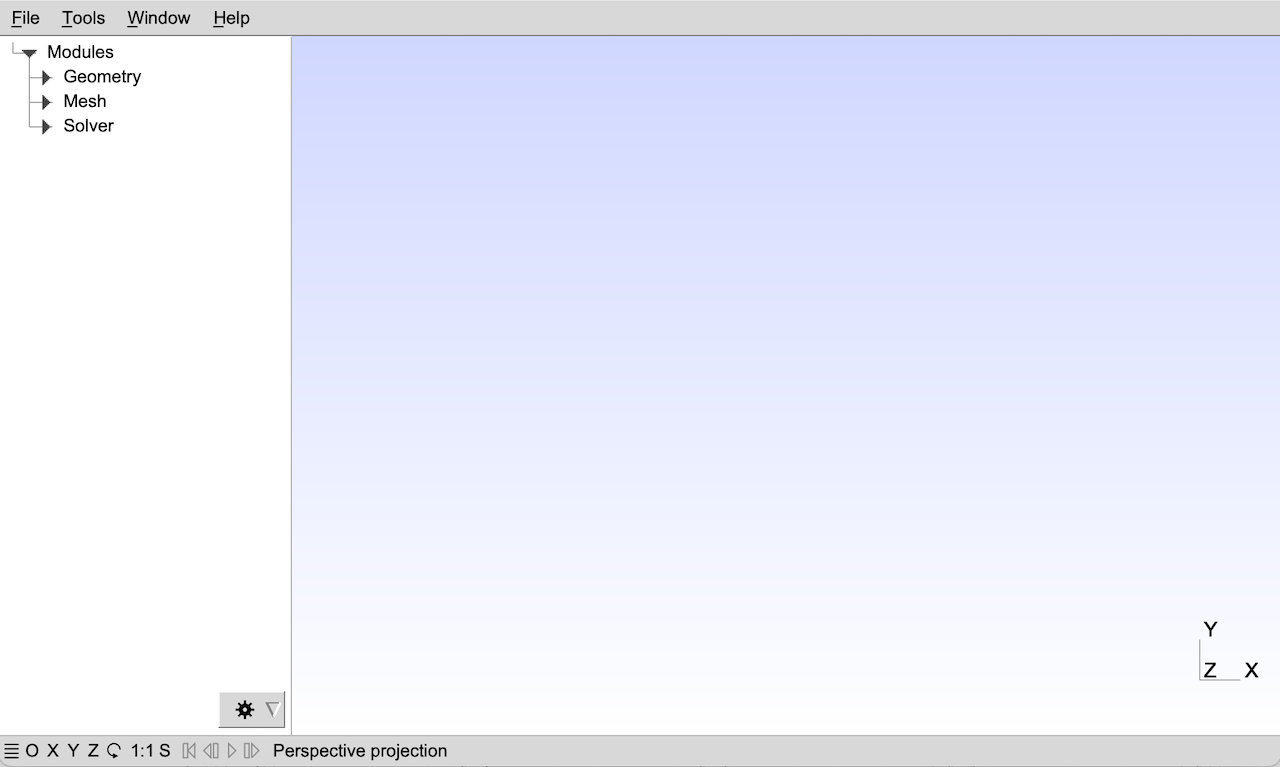
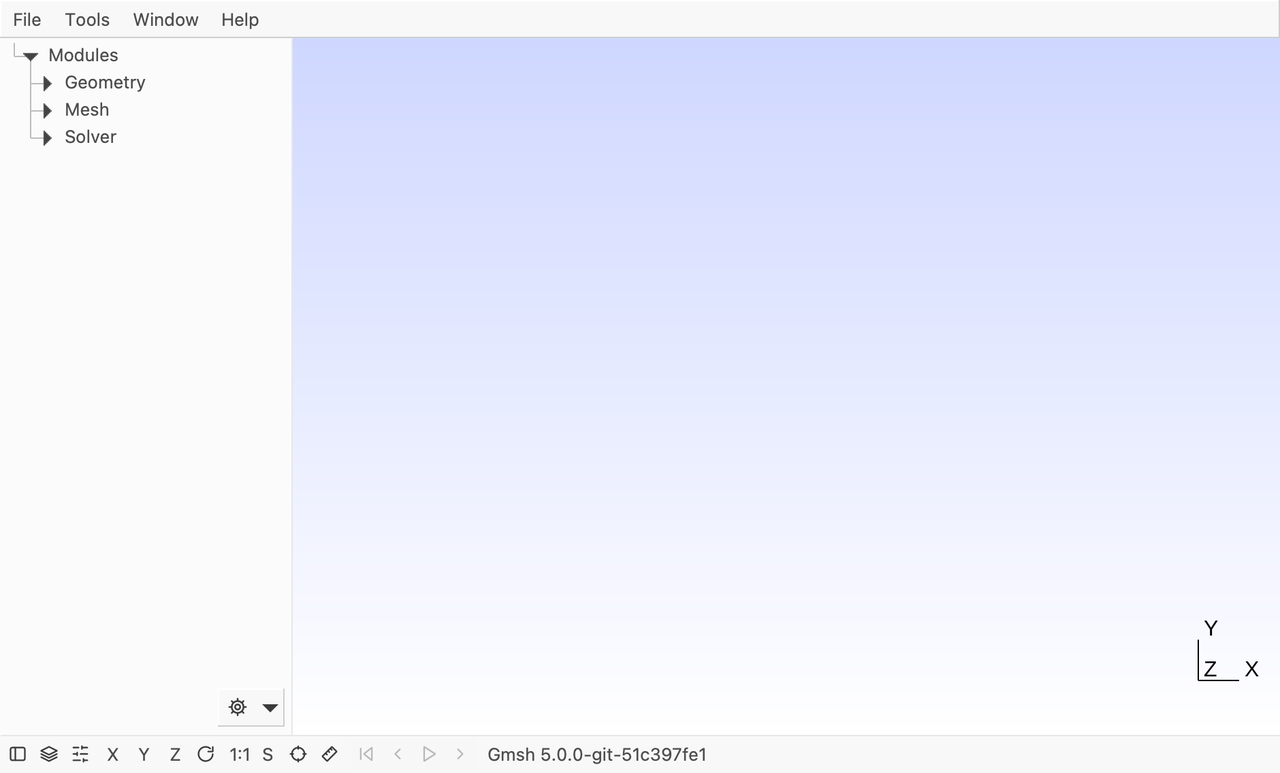
doc: redo the screenshots of the GUI with the new interface, add one of the docked tool windows, and revise the GUI chapter for the dock, the status bar and the look following the desktop

Changed region(s): [[0.0, 0.0, 1.0, 0.1799], [0.0, 0.8996, 1.0, 1.0], [0.9375, 0.8096, 1.0, 0.8996]]

diff --git a/doc/texinfo/images/make_gui_screenshots.cpp b/doc/texinfo/images/make_gui_screenshots.cpp
@@ -1,0 +1,167 @@
+// Gmsh - Copyright (C) 1997-2026 C. Geuzaine, J.-F. Remacle
+//
+// See the LICENSE.txt file in the Gmsh root directory for license information.
+// Please report all issues on https://gitlab.onelab.info/gmsh/gmsh/issues.
+
+// The screenshots of the GUI for the reference manual (gui.png,
+// gui_add_rectangle.png, gui_mesh.png, gui_tools.png), taken on a retina
+// screen in light mode with the in-window menu bar.
+//
+// Build Gmsh as a shared library with its private API (cmake
+// -DENABLE_BUILD_SHARED=1 -DENABLE_PRIVATE_API=1), then
+//
+//   clang++ -std=c++17 -I../../../api -I../../../src/fltk -I../../../src/common
+//     -I../../../src/geo -I../../../src/post -I../../../src/graphics
+//     -I../../../src/numeric -I../../../src/mesh -I../../../src/parser
+//     -I../../../src/plugin -I<build dir>/src/common $(fltk-config --cxxflags
+//     --use-images --use-gl) make_gui_screenshots.cpp -o make_gui_screenshots
+//     -L<build dir> -lgmsh $(fltk-config --ldflags --use-images --use-gl)
+//
+// and run `SCENE=<scene> ./make_gui_screenshots <dir>' for each of the scenes
+// gui, rectangle, mesh and tools: each writes the windows it shows into <dir>
+// with their offsets in a text file, which make_gui_screenshots.py composes
+// into the final pictures.
+#include <chrono>
+#include <cstdio>
+#include <cstdlib>
+#include <string>
+#include <vector>
+#include <typeinfo>
+#include <FL/Fl.H>
+#include <FL/Fl_Window.H>
+#include <FL/Fl_Menu_Window.H>
+#include <FL/Fl_Group.H>
+#include <FL/Fl_Button.H>
+#include <FL/Fl_Tree.H>
+#include <FL/fl_draw.H>
+#include <FL/Fl_RGB_Image.H>
+#include <FL/Fl_PNG_Image.H>
+#include <FL/Fl_Image_Surface.H>
+#include <FL/fl_ask.H>
+#include "gmsh.h"
+#include "FlGui.h"
+#include "graphicWindow.h"
+#include "openglWindow.h"
+#include "onelabGroup.h"
+#include "optionWindow.h"
+#include "visibilityWindow.h"
+#include "Context.h"
+
+static Fl_Window *m = nullptr, *mwFirst = nullptr;
+static std::string outdir, scene;
+static void pump(int n = 10) { for(int k = 0; k < n; k++) Fl::wait(0.02); }
+static void pumpFor(double sec) { auto t0 = std::chrono::steady_clock::now(); while(std::chrono::duration<double>(std::chrono::steady_clock::now() - t0).count() < sec) Fl::wait(0.05); }
+
+// every window shown, the main one first, written with its offset from the main one
+static void captureAll(const std::string &name)
+{
+  std::string base = outdir + "/" + name;
+  FILE *f = fopen((base + ".txt").c_str(), "w");
+  int k = 0;
+  std::vector<Fl_Window *> ws = {m};
+  for(Fl_Window *w = Fl::first_window(); w; w = Fl::next_window(w)) if(w != m && w->shown() && w->visible()) ws.push_back(w);
+  for(Fl_Window *w : ws) {
+    Fl_RGB_Image *img = fl_capture_window(w, 0, 0, w->w(), w->h());
+    std::string file = base + "-" + std::to_string(k) + ".png";
+    if(img) { fl_write_png(file.c_str(), img); delete img; }
+    fprintf(f, "%s %d %d %d %d %s\n", file.c_str(), w->x() - m->x(), w->y() - m->y(), w->w(), w->h(), typeid(*w).name());
+    k++;
+  }
+  fclose(f);
+}
+
+static Fl_Widget *findLabel(Fl_Group *root, const char *lab)
+{
+  std::vector<Fl_Group *> st = {root};
+  while(!st.empty()) { Fl_Group *grp = st.back(); st.pop_back();
+    for(int i = 0; i < grp->children(); i++) { Fl_Widget *c = grp->child(i);
+      if(c->label() && std::string(c->label()) == lab && c->visible_r()) return c;
+      if(Fl_Group *gg = dynamic_cast<Fl_Group *>(c)) st.push_back(gg); } }
+  return nullptr;
+}
+static Fl_Widget *findTooltip(Fl_Group *root, const char *tip)
+{
+  std::vector<Fl_Group *> st = {root};
+  while(!st.empty()) { Fl_Group *grp = st.back(); st.pop_back();
+    for(int i = 0; i < grp->children(); i++) { Fl_Widget *c = grp->child(i);
+      if(c->tooltip() && std::string(c->tooltip()).find(tip) != std::string::npos && c->visible_r()) return c;
+      if(Fl_Group *gg = dynamic_cast<Fl_Group *>(c)) st.push_back(gg); } }
+  return nullptr;
+}
+// the pointer moved to a point of a widget, through the main window
+static void moveTo(Fl_Widget *w, int dx, int dy)
+{
+  int ox = 0, oy = 0; for(Fl_Widget *p = w; p && p != m; p = p->parent()) if(dynamic_cast<Fl_Window *>(p)) { ox += p->x(); oy += p->y(); }
+  Fl::e_x = ox + w->x() + dx; Fl::e_y = oy + w->y() + dy; Fl::e_x_root = m->x() + Fl::e_x; Fl::e_y_root = m->y() + Fl::e_y; Fl::e_state = 0;
+  Fl::handle(FL_ENTER, m); Fl::handle(FL_MOVE, m);
+}
+static void key(int sym, int n = 1) { for(int i = 0; i < n; i++) { Fl::e_keysym = sym; Fl::e_text = (char *)""; Fl::e_length = 0; Fl::handle(FL_KEYBOARD, Fl::first_window()); pump(2); } }
+
+int main(int argc, char **argv)
+{
+  outdir = argc > 1 ? argv[1] : "."; scene = getenv("SCENE") ? getenv("SCENE") : "gui";
+  gmsh::initialize(0, nullptr, false);
+  gmsh::option::setNumber("General.FltkColorScheme", 0);
+  gmsh::option::setNumber("General.SystemMenuBar", 0);
+  gmsh::option::setNumber("General.GraphicsWidth", 940);
+  gmsh::option::setNumber("General.GraphicsHeight", 512);
+  gmsh::option::setNumber("General.MenuWidth", 215);
+  gmsh::option::setNumber("General.MessageHeight", 130);
+  std::string geo = outdir + "/mymodel.geo";
+  if(scene == "rectangle") { FILE *f = fopen(geo.c_str(), "w"); fclose(f); gmsh::open(geo); }
+  if(scene == "mesh" || scene == "tools") {
+    FILE *f = fopen(geo.c_str(), "w"); fprintf(f, "//+\nSetFactory(\"OpenCASCADE\");\nRectangle(1) = {0, 0, 0, 1, 0.5, 0};\n"); fclose(f);
+    gmsh::open(geo); gmsh::model::mesh::generate(2);
+    if(scene == "mesh") gmsh::option::setNumber("Mesh.SurfaceFaces", 1);
+  }
+  gmsh::fltk::initialize();
+  FlGui *g = FlGui::instance();
+  m = g->graph[0]->getWindow();
+  pump(20);
+  if(scene == "gui") { captureAll("gui"); }
+  else if(scene == "rectangle") {
+    for(const char *n : {"0Modules/Geometry", "0Modules/Geometry/Elementary entities", "0Modules/Geometry/Elementary entities/Add"}) g->onelab->openTreeItem(n);
+    pump(10);
+    Fl_Widget *r = findLabel(m, "Rectangle"); printf("Rectangle button: %d\n", r != nullptr);
+    if(!r) return 1;
+    Fl::add_timeout(1.5, [](void *) { // inside the add loop: the pointer on the picture, then the capture
+      openglWindow *gl = FlGui::instance()->getCurrentOpenglWindow();
+      // the event goes straight to the subwindow: coordinates relative to it
+      Fl::e_x = gl->w() * 0.40; Fl::e_y = gl->h() * 0.62; Fl::e_x_root = m->x() + gl->x() + Fl::e_x; Fl::e_y_root = m->y() + gl->y() + Fl::e_y; Fl::e_state = 0;
+      Fl_Widget *glw = gl; glw->handle(FL_ENTER); glw->handle(FL_MOVE); pump(10);
+      captureAll("gui_add_rectangle"); gmsh::finalize(); exit(0); });
+    r->do_callback(); // runs the add loop until a key
+  }
+  else if(scene == "mesh") {
+    g->onelab->openTreeItem("0Modules/Mesh"); pump(10);
+    // a double click in the picture pops the quick access menu there; the steps run from timers,
+    // each returning so that the loop of the menu can open the submenu and redraw between them
+    Fl::add_timeout(0.8, [](void *) {
+      Fl_Window *mw = Fl::first_window(); mwFirst = mw; printf("menu window %s %dx%d\n", typeid(*mw).name(), mw->w(), mw->h());
+      double ry = getenv("ROW_Y") ? atof(getenv("ROW_Y")) : 0.733;
+      Fl::e_x = mw->w() / 2; Fl::e_y = (int)(mw->h() * ry); Fl::e_x_root = mw->x() + Fl::e_x; Fl::e_y_root = mw->y() + Fl::e_y; Fl::e_state = 0;
+      Fl::handle(FL_MOVE, mw);
+      Fl::add_timeout(0.4, [](void *) {
+        int n = 0; for(Fl_Window *w = Fl::first_window(); w; w = Fl::next_window(w)) if(std::string(typeid(*w).name()).find("Menu_Window") != std::string::npos) n++;
+        printf("menu windows open: %d\n", n);
+        // into the submenu, on its fourth row (2D element faces)
+        Fl_Window *sub = nullptr; for(Fl_Window *w = Fl::first_window(); w; w = Fl::next_window(w)) if(std::string(typeid(*w).name()).find("Menu_Window") != std::string::npos && w != mwFirst) sub = w;
+        if(sub) { Fl::e_x = sub->w() / 2; Fl::e_y = (int)(sub->h() * 3.5 / 6.); Fl::e_x_root = sub->x() + Fl::e_x; Fl::e_y_root = sub->y() + Fl::e_y; Fl::e_state = 0; Fl::handle(FL_MOVE, sub); }
+        Fl::add_timeout(0.4, [](void *) { captureAll("gui_mesh"); gmsh::finalize(); exit(0); });
+      });
+    });
+    openglWindow *gl = g->getCurrentOpenglWindow(); Fl_Widget *glw = gl;
+    Fl::e_x = gl->w() * 0.22; Fl::e_y = gl->h() * (getenv("CLICK_Y") ? atof(getenv("CLICK_Y")) : 0.67); Fl::e_x_root = m->x() + gl->x() + Fl::e_x; Fl::e_y_root = m->y() + gl->y() + Fl::e_y;
+    Fl::e_state = FL_BUTTON1; Fl::e_keysym = FL_Button + 1; Fl::e_clicks = 1;
+    glw->handle(FL_PUSH); // runs the menu until it is closed
+    pump(10);
+  }
+  else if(scene == "tools") {
+    g->options->showGroup(3); pump(10); // the mesh options, docked
+    g->visibility->win->show(); pump(10); // a second tab
+    g->options->win->show(); pump(10); // the options in front
+    captureAll("gui_tools");
+  }
+  gmsh::finalize();
+  return 0;
+}

diff --git a/doc/texinfo/images/make_gui_screenshots.py b/doc/texinfo/images/make_gui_screenshots.py
@@ -1,0 +1,22 @@
+#
+# Composes the captures of make_gui_screenshots.cpp into the pictures of the
+# manual: "python3 make_gui_screenshots.py <dir>" reads <dir>/<scene>.txt for
+# each scene, lays the menus over the main window at their offsets (the
+# captures are at twice the logical size on a retina screen), and writes
+# <scene>.png scaled to 1280 pixels wide in the current directory
+#
+import sys
+from PIL import Image
+
+d = sys.argv[1] if len(sys.argv) > 1 else 'shots'
+for name in ('gui', 'gui_add_rectangle', 'gui_mesh', 'gui_tools'):
+    lines = [l.split() for l in open('%s/%s.txt' % (d, name))]
+    main = Image.open(lines[0][0]).convert('RGB')
+    for f, x, y, w, h, t in lines[1:]:
+        if 'Menu_Window' in t:
+            im = Image.open(f).convert('RGB')
+            main.paste(im, (int(x) * 2, int(y) * 2))
+    W = 1280
+    H = round(main.height * W / main.width)
+    main.resize((W, H), Image.LANCZOS).save(name + '.png')
+    print(name + '.png', W, H)
